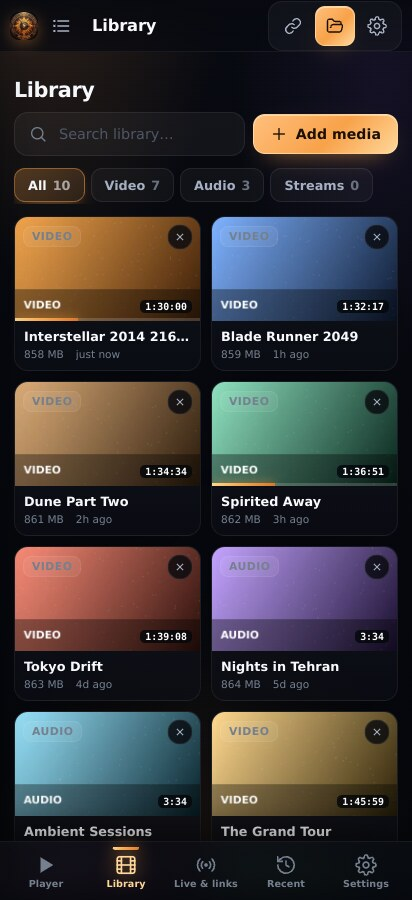
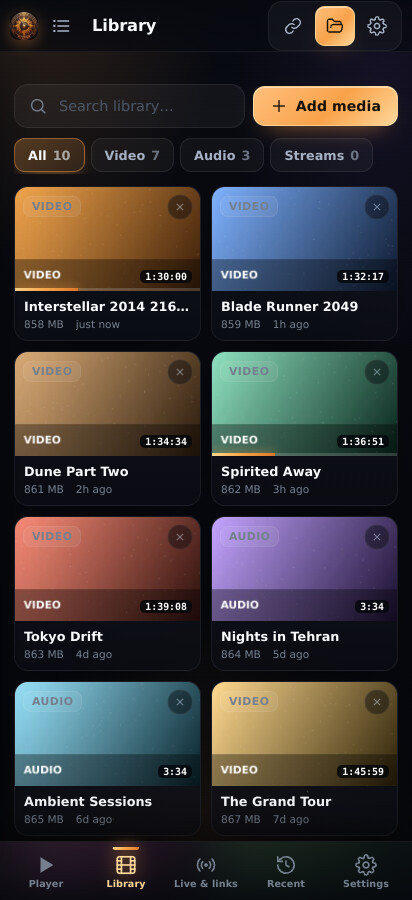
fix(android): fill the library as soon as media access is granted
The permission dialog has no callback into the webview, so a first-run grant
used to look like a dead end until the next launch. A light background poll now
waits for the scan to finish and indexes the result immediately; views that mount
later read the last known status instead of showing an empty device strip.

diff --git a/src/core/device.ts b/src/core/device.ts
@@ -67,15 +67,27 @@ export function isAndroidDevice(): boolean {
 }
 
 let busy = false;
+let latest: DeviceStatus | null = null;
 const listeners = new Set<(status: DeviceStatus | null) => void>();
 
 /** Subscribe to scan progress (library view redraws, settings status line). */
+/** Last status seen by this session — views that mount later can read it. */
+export function lastDeviceStatus(): DeviceStatus | null {
+  return latest;
+}
+
+/** True while the user still has to grant media access. */
+export function deviceNeedsPermission(): boolean {
+  return latest?.state === 'permission' || latest?.state === 'denied';
+}
+
 export function onDeviceSync(fn: (status: DeviceStatus | null) => void): () => void {
   listeners.add(fn);
   return () => listeners.delete(fn);
 }
 
 function emit(status: DeviceStatus | null): void {
+  if (status) latest = status;
   listeners.forEach((fn) => {
     try {
       fn(status);
@@ -190,6 +202,29 @@ export function applyDeviceStatus(status: DeviceStatus | null): SyncResult {
  * The whole launch-time flow: scan, index, report. Silent when there is nothing
  * new, so an app that opens onto an unchanged device stays quiet.
  */
+/**
+ * After the permission dialog there is no further command to send — Android
+ * simply continues the scan once the grant arrives. Keep a light poll running in
+ * the background so the library fills itself without a relaunch.
+ */
+async function followUpAfterPermission(): Promise<void> {
+  const started = Date.now();
+  while (Date.now() - started < 180_000) {
+    await sleep(1200);
+    const status = await invoke<DeviceStatus>('android_media_status');
+    if (!status) return;
+    emit(status);
+    if (status.state === 'ready') {
+      const result = applyDeviceStatus(status);
+      emit(status);
+      const { toast } = await import('./ui');
+      if (result.added) toast(t('device.added', { n: n(result.added) }), 'ok', 2600);
+      return;
+    }
+    if (status.state === 'denied' || status.state === 'error' || status.state === 'idle') return;
+  }
+}
+
 export async function syncDeviceLibrary(opts: { silent?: boolean; reason?: 'launch' | 'manual' } = {}): Promise<SyncResult> {
   if (!isAndroidDevice() || busy) return { status: null, added: 0, removed: 0, total: store.library().length };
   if (!store.settings.autoIndex && opts.reason !== 'manual') {
@@ -201,6 +236,7 @@ export async function syncDeviceLibrary(opts: { silent?: boolean; reason?: 'laun
     const result = applyDeviceStatus(status);
     if (status?.state === 'permission' || status?.state === 'denied') {
       emit(status);
+      if (status.state === 'permission') void followUpAfterPermission();
       return result;
     }
     if (result.added || result.removed) {

diff --git a/src/views/library.ts b/src/views/library.ts
@@ -5,7 +5,15 @@ import { icon, hydrateIcons } from '../core/icons';
 import type { NativeFile } from '../core/native';
 import { t, n } from '../core/i18n';
 import { store, type MediaItem } from '../core/store';
-import { applyDeviceStatus, isAndroidDevice, onDeviceSync, pickDeviceFolder, syncDeviceLibrary, type DeviceStatus } from '../core/device';
+import {
+  applyDeviceStatus,
+  isAndroidDevice,
+  lastDeviceStatus,
+  onDeviceSync,
+  pickDeviceFolder,
+  syncDeviceLibrary,
+  type DeviceStatus,
+} from '../core/device';
 import { confirmDialog, toast } from '../core/ui';
 import { escapeHtml, fmtBytes, fmtTime, fmtRelative, isAudioFile, pickFiles, $, $$ } from '../core/util';
 
@@ -108,7 +116,7 @@ function card(item: MediaItem): string {
  */
 function devicePanel(): string {
   if (!isAndroidDevice()) return '';
-  const st = deviceStatus?.state;
+  const st = (deviceStatus ?? lastDeviceStatus())?.state;
   const busy = st === 'scanning' || st === 'picking' || st === 'starting';
   const denied = st === 'permission' || st === 'denied';
   const count = store.deviceCount();
@@ -234,6 +242,7 @@ export function renderLibrary(host: HTMLElement, ctx: AppContext): void {
 
   if (isAndroidDevice() && !deviceBound) {
     deviceBound = true;
+    deviceStatus = lastDeviceStatus();
     onDeviceSync((status) => {
       deviceStatus = status;
       const live = document.querySelector<HTMLElement>('.view[data-view="library"].is-active');
